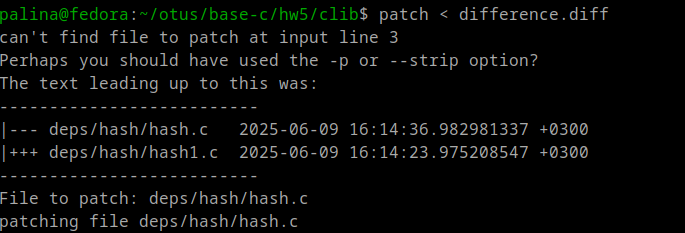
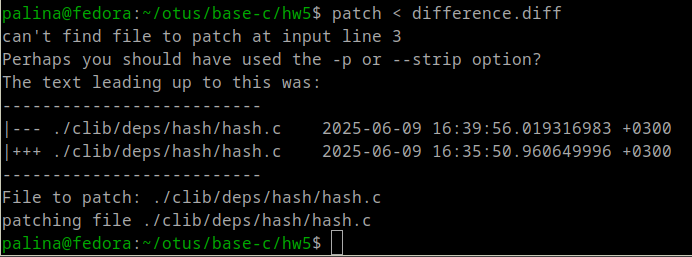
hw5

diff --git a/hw5/readme.md b/hw5/readme.md
@@ -16,7 +16,7 @@ patch < difference.diff
 
 ![02](./pic2.png)
 
-- применение патча (применялся изнутри папки clib, поэтому пути подкорректировала):
+- применение патча:
 
 ![04](./pic4.png)
 
